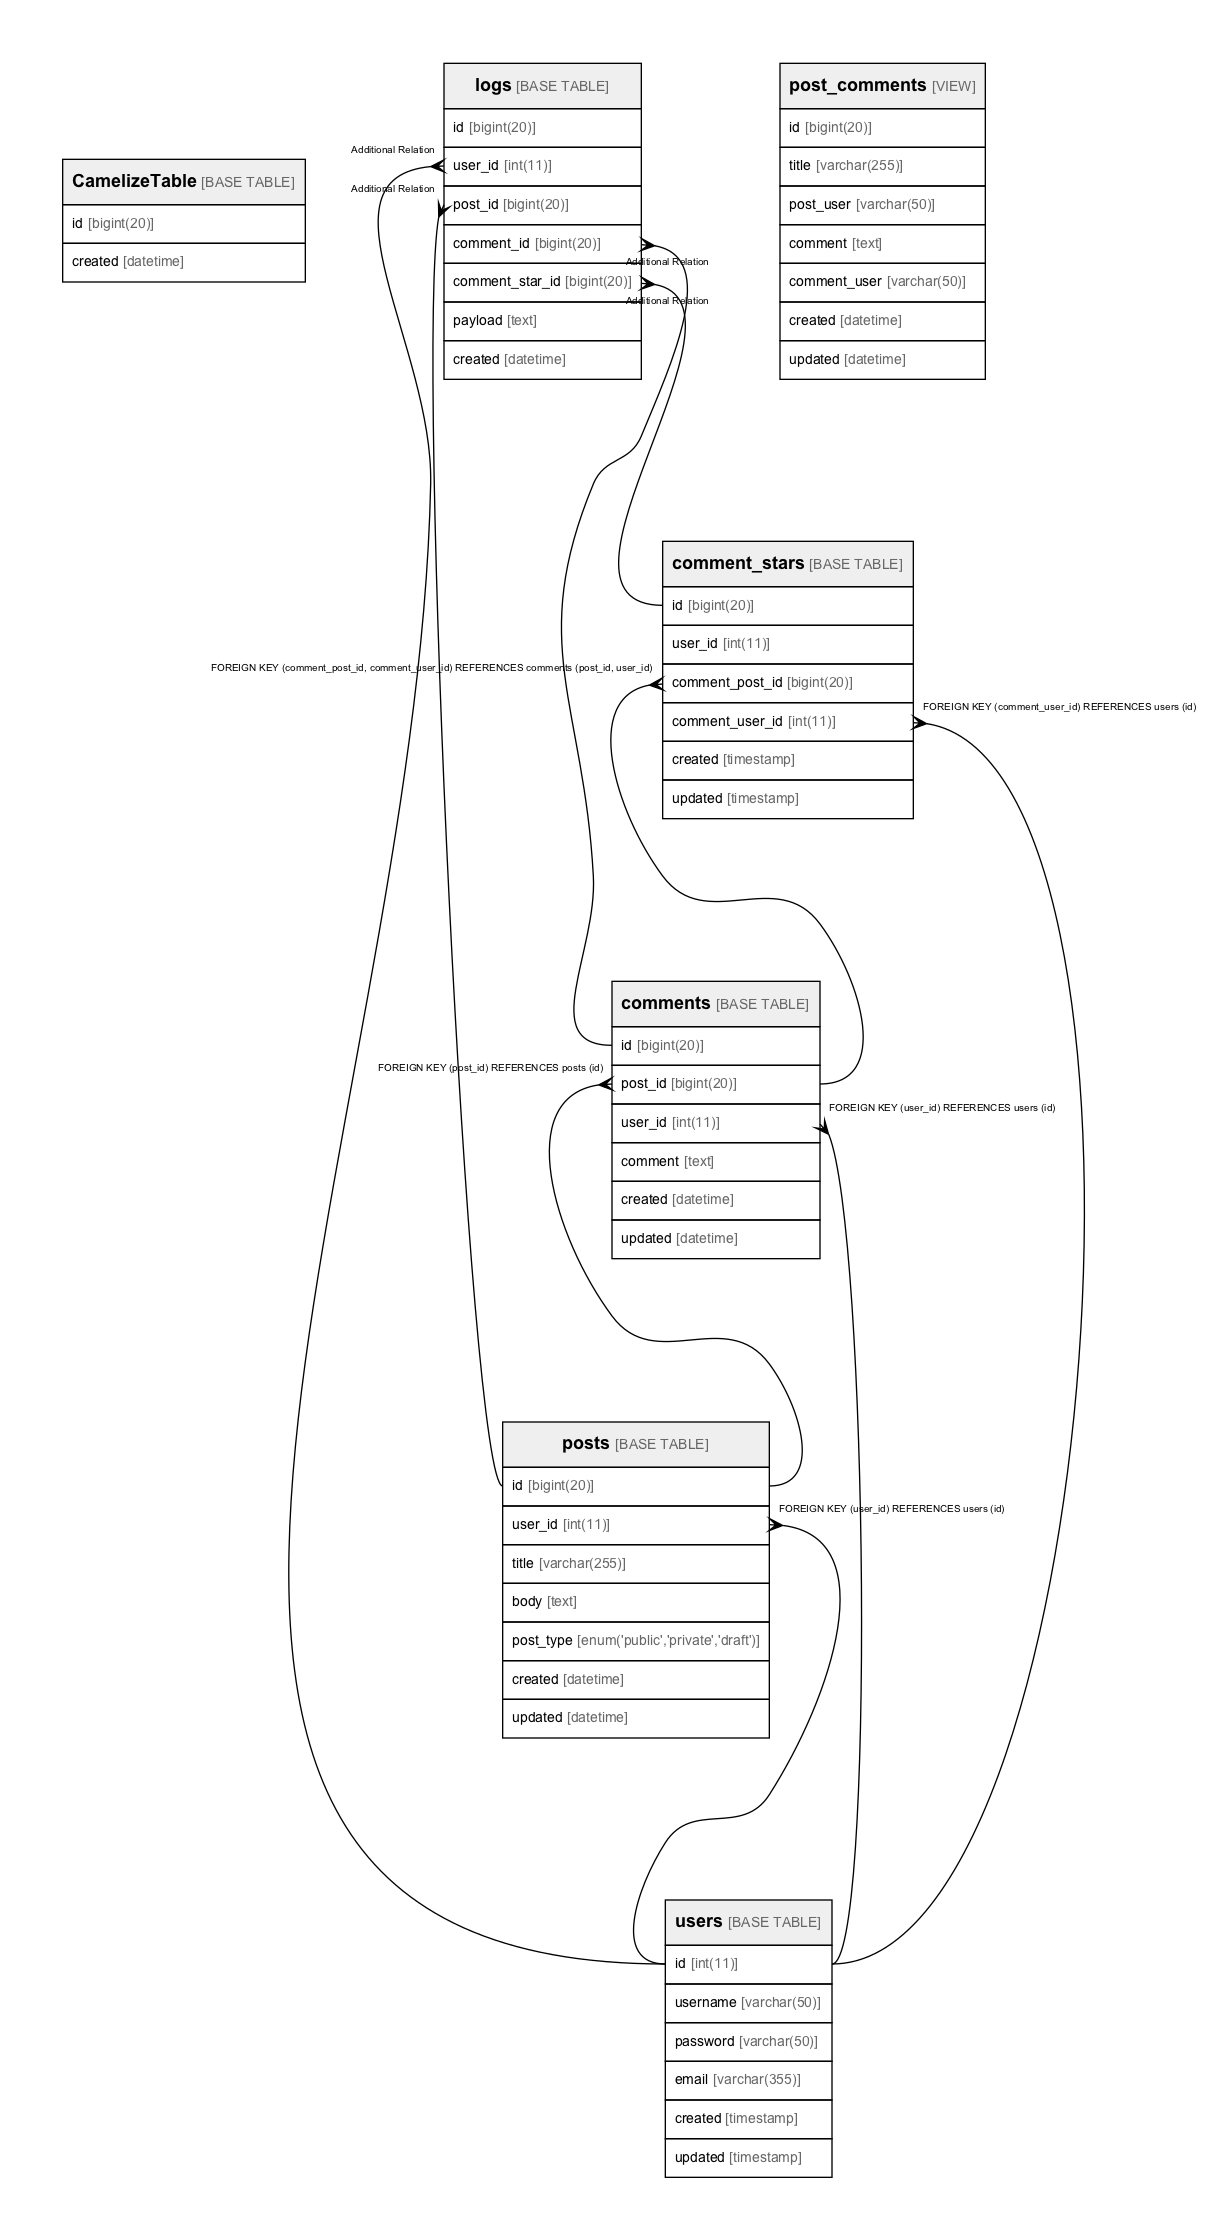
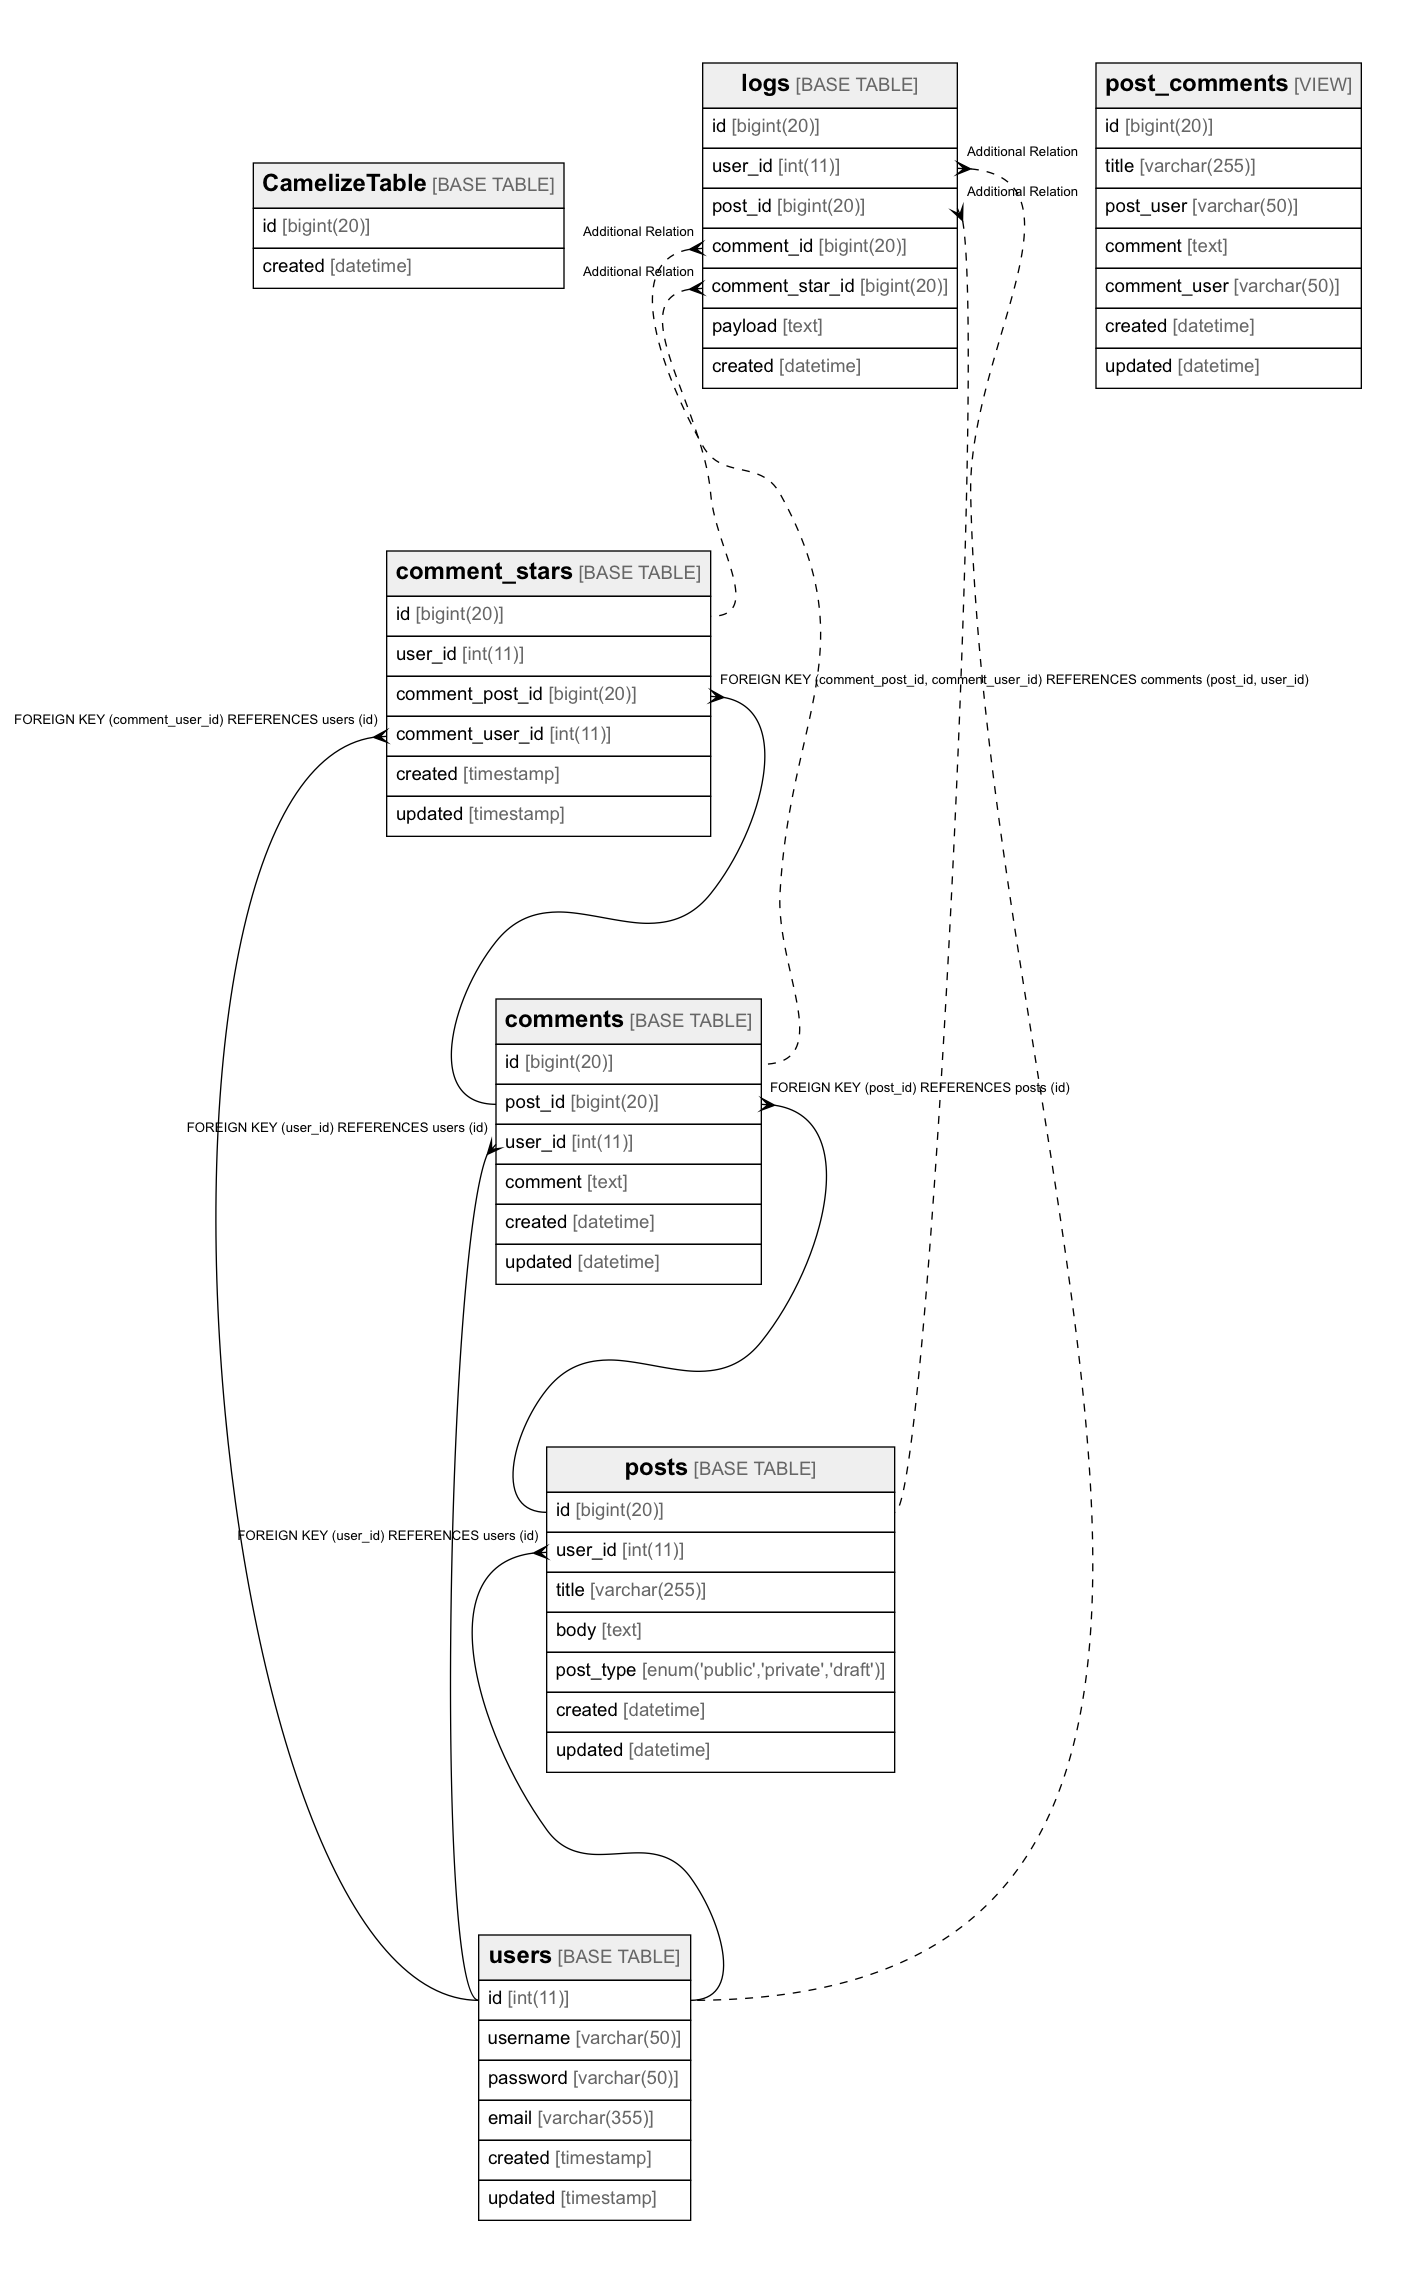
Change style of Additional relation edges

diff --git a/output/dot/templates.go b/output/dot/templates.go
@@ -6,24 +6,24 @@ import (
 	"github.com/jessevdk/go-assets"
 )
 
-var _Assets21532ae17ad95976ac467eeaeab81f2bb1d537e4 = "digraph {{ .Schema.Name }} {\n  // Config\n  graph [rankdir=TB, layout=dot, fontname=\"Arial\"];\n  node [shape=record, fontsize=14, margin=0.6, fontname=\"Arial\"];\n  edge [fontsize=10, labelfloat=false, splines=none, fontname=\"Arial\"];\n\n  // Tables\n  {{- range $i, $t := .Schema.Tables }}\n  {{ $t.Name }} [shape=none, label=<<table border=\"0\" cellborder=\"1\" cellspacing=\"0\" cellpadding=\"6\">\n                 <tr><td bgcolor=\"#EFEFEF\"><font face=\"Arial Bold\" point-size=\"18\">{{ $t.Name }}</font> <font color=\"#666666\">[{{ $t.Type }}]</font></td></tr>\n                 {{- range $ii, $c := $t.Columns }}\n                 <tr><td port=\"{{ $c.Name }}\" align=\"left\">{{ $c.Name }} <font color=\"#666666\">[{{ $c.Type }}]</font></td></tr>\n                 {{- end }}\n              </table>>];\n  {{- end }}\n\n  // Relations\n  {{- range $j, $r := .Schema.Relations }}\n  {{ $r.Table.Name }}:{{ $c := index $r.Columns 0 }}{{ $c.Name }} -> {{ $r.ParentTable.Name }}:{{ $pc := index $r.ParentColumns 0 }}{{ $pc.Name }} [dir=back, arrowtail=crow, taillabel=<<table cellpadding=\"5\" border=\"0\" cellborder=\"0\"><tr><td>{{ $r.Def }}</td></tr></table>>];\n  {{- end }}\n}\n"
-var _Assets5bd148e6149bb9adcdddfcf8cc46d6e3047dbe26 = "digraph {{ .Table.Name }} {\n  // Config\n  graph [rankdir=TB, layout=dot, fontname=\"Arial\"];\n  node [shape=record, fontsize=14, margin=0.6, fontname=\"Arial\"];\n  edge [fontsize=10, labelfloat=false, splines=none, fontname=\"Arial\"];\n\n  // Tables\n  {{ .Table.Name }} [shape=none, label=<<table border=\"3\" cellborder=\"1\" cellspacing=\"0\" cellpadding=\"6\">\n                 <tr><td bgcolor=\"#EFEFEF\"><font face=\"Arial Bold\" point-size=\"18\">{{ .Table.Name }}</font> <font color=\"#666666\">[{{ .Table.Type }}]</font></td></tr>\n                 {{- range $ii, $c := .Table.Columns }}\n                 <tr><td port=\"{{ $c.Name }}\" align=\"left\">{{ $c.Name }} <font color=\"#666666\">[{{ $c.Type }}]</font></td></tr>\n                 {{- end }}\n              </table>>];\n  {{- range $i, $t := .Tables }}\n  {{ $t.Name }} [shape=none, label=<<table border=\"0\" cellborder=\"1\" cellspacing=\"0\" cellpadding=\"6\">\n                 <tr><td bgcolor=\"#EFEFEF\"><font face=\"Arial Bold\" point-size=\"18\">{{ $t.Name }}</font> <font color=\"#666666\">[{{ $t.Type }}]</font></td></tr>\n                 {{- range $ii, $c := $t.Columns }}\n                 <tr><td port=\"{{ $c.Name }}\" align=\"left\">{{ $c.Name }} <font color=\"#666666\">[{{ $c.Type }}]</font></td></tr>\n                 {{- end }}\n              </table>>];\n  {{- end }}\n\n  // Relations\n  {{- range $i, $r := .Relations }}\n  {{ $r.Table.Name }}:{{ $c := index $r.Columns 0 }}{{ $c.Name }} -> {{ $r.ParentTable.Name }}:{{ $pc := index $r.ParentColumns 0 }}{{ $pc.Name }} [dir=back, arrowtail=crow, taillabel=<<table cellpadding=\"5\" border=\"0\" cellborder=\"0\"><tr><td>{{ $r.Def }}</td></tr></table>>];\n  {{- end }}\n}\n"
+var _Assets21532ae17ad95976ac467eeaeab81f2bb1d537e4 = "digraph {{ .Schema.Name }} {\n  // Config\n  graph [rankdir=TB, layout=dot, fontname=\"Arial\"];\n  node [shape=record, fontsize=14, margin=0.6, fontname=\"Arial\"];\n  edge [fontsize=10, labelfloat=false, splines=none, fontname=\"Arial\"];\n\n  // Tables\n  {{- range $i, $t := .Schema.Tables }}\n  {{ $t.Name }} [shape=none, label=<<table border=\"0\" cellborder=\"1\" cellspacing=\"0\" cellpadding=\"6\">\n                 <tr><td bgcolor=\"#EFEFEF\"><font face=\"Arial Bold\" point-size=\"18\">{{ $t.Name }}</font> <font color=\"#666666\">[{{ $t.Type }}]</font></td></tr>\n                 {{- range $ii, $c := $t.Columns }}\n                 <tr><td port=\"{{ $c.Name }}\" align=\"left\">{{ $c.Name }} <font color=\"#666666\">[{{ $c.Type }}]</font></td></tr>\n                 {{- end }}\n              </table>>];\n  {{- end }}\n\n  // Relations\n  {{- range $j, $r := .Schema.Relations }}\n  {{ $r.Table.Name }}:{{ $c := index $r.Columns 0 }}{{ $c.Name }} -> {{ $r.ParentTable.Name }}:{{ $pc := index $r.ParentColumns 0 }}{{ $pc.Name }} [dir=back, arrowtail=crow, {{ if $r.IsAdditional }}style=\"dashed\",{{ end }} taillabel=<<table cellpadding=\"5\" border=\"0\" cellborder=\"0\"><tr><td>{{ $r.Def }}</td></tr></table>>];\n  {{- end }}\n}\n"
+var _Assets5bd148e6149bb9adcdddfcf8cc46d6e3047dbe26 = "digraph {{ .Table.Name }} {\n  // Config\n  graph [rankdir=TB, layout=dot, fontname=\"Arial\"];\n  node [shape=record, fontsize=14, margin=0.6, fontname=\"Arial\"];\n  edge [fontsize=10, labelfloat=false, splines=none, fontname=\"Arial\"];\n\n  // Tables\n  {{ .Table.Name }} [shape=none, label=<<table border=\"3\" cellborder=\"1\" cellspacing=\"0\" cellpadding=\"6\">\n                 <tr><td bgcolor=\"#EFEFEF\"><font face=\"Arial Bold\" point-size=\"18\">{{ .Table.Name }}</font> <font color=\"#666666\">[{{ .Table.Type }}]</font></td></tr>\n                 {{- range $ii, $c := .Table.Columns }}\n                 <tr><td port=\"{{ $c.Name }}\" align=\"left\">{{ $c.Name }} <font color=\"#666666\">[{{ $c.Type }}]</font></td></tr>\n                 {{- end }}\n              </table>>];\n  {{- range $i, $t := .Tables }}\n  {{ $t.Name }} [shape=none, label=<<table border=\"0\" cellborder=\"1\" cellspacing=\"0\" cellpadding=\"6\">\n                 <tr><td bgcolor=\"#EFEFEF\"><font face=\"Arial Bold\" point-size=\"18\">{{ $t.Name }}</font> <font color=\"#666666\">[{{ $t.Type }}]</font></td></tr>\n                 {{- range $ii, $c := $t.Columns }}\n                 <tr><td port=\"{{ $c.Name }}\" align=\"left\">{{ $c.Name }} <font color=\"#666666\">[{{ $c.Type }}]</font></td></tr>\n                 {{- end }}\n              </table>>];\n  {{- end }}\n\n  // Relations\n  {{- range $i, $r := .Relations }}\n  {{ $r.Table.Name }}:{{ $c := index $r.Columns 0 }}{{ $c.Name }} -> {{ $r.ParentTable.Name }}:{{ $pc := index $r.ParentColumns 0 }}{{ $pc.Name }} [dir=back, arrowtail=crow, {{ if $r.IsAdditional }}style =\"dashed\",{{ end }} taillabel=<<table cellpadding=\"5\" border=\"0\" cellborder=\"0\"><tr><td>{{ $r.Def }}</td></tr></table>>];\n  {{- end }}\n}\n"
 
 // Assets returns go-assets FileSystem
 var Assets = assets.NewFileSystem(map[string][]string{"/": []string{"schema.dot.tmpl", "table.dot.tmpl"}}, map[string]*assets.File{
-	"/table.dot.tmpl": &assets.File{
-		Path:     "/table.dot.tmpl",
-		FileMode: 0x1a4,
-		Mtime:    time.Unix(1527595732, 1527595732000000000),
-		Data:     []byte(_Assets5bd148e6149bb9adcdddfcf8cc46d6e3047dbe26),
-	}, "/": &assets.File{
+	"/": &assets.File{
 		Path:     "/",
 		FileMode: 0x800001ed,
-		Mtime:    time.Unix(1527595732, 1527595732000000000),
+		Mtime:    time.Unix(1527686637, 1527686637000000000),
 		Data:     nil,
 	}, "/schema.dot.tmpl": &assets.File{
 		Path:     "/schema.dot.tmpl",
 		FileMode: 0x1a4,
-		Mtime:    time.Unix(1527512634, 1527512634000000000),
+		Mtime:    time.Unix(1527686637, 1527686637000000000),
 		Data:     []byte(_Assets21532ae17ad95976ac467eeaeab81f2bb1d537e4),
+	}, "/table.dot.tmpl": &assets.File{
+		Path:     "/table.dot.tmpl",
+		FileMode: 0x1a4,
+		Mtime:    time.Unix(1527685972, 1527685972000000000),
+		Data:     []byte(_Assets5bd148e6149bb9adcdddfcf8cc46d6e3047dbe26),
 	}}, "")

diff --git a/output/md/templates.go b/output/md/templates.go
@@ -14,16 +14,16 @@ var Assets = assets.NewFileSystem(map[string][]string{"/": []string{"index.md.tm
 	"/": &assets.File{
 		Path:     "/",
 		FileMode: 0x800001ed,
-		Mtime:    time.Unix(1527597737, 1527597737000000000),
+		Mtime:    time.Unix(1527684406, 1527684406000000000),
 		Data:     nil,
 	}, "/index.md.tmpl": &assets.File{
 		Path:     "/index.md.tmpl",
 		FileMode: 0x1a4,
-		Mtime:    time.Unix(1527597737, 1527597737000000000),
+		Mtime:    time.Unix(1527684406, 1527684406000000000),
 		Data:     []byte(_Assets43889384df1c6f74d764c29d91b9d5637eb46061),
 	}, "/table.md.tmpl": &assets.File{
 		Path:     "/table.md.tmpl",
 		FileMode: 0x1a4,
-		Mtime:    time.Unix(1527597735, 1527597735000000000),
+		Mtime:    time.Unix(1527684406, 1527684406000000000),
 		Data:     []byte(_Assetsac44302fb6150a621aa9d04a0350aac972bf7e18),
 	}}, "")

diff --git a/schema/schema.go b/schema/schema.go
@@ -50,6 +50,7 @@ type Relation struct {
 	ParentTable   *Table
 	ParentColumns []*Column
 	Def           string
+	IsAdditional  bool
 }
 
 // Schema is the struct for database schema
@@ -142,7 +143,8 @@ func (s *Schema) LoadAdditionalRelations(path string) error {
 
 	for _, r := range data.Relations {
 		relation := &Relation{
-			Def: "Additional Relation",
+			Def:          "Additional Relation",
+			IsAdditional: true,
 		}
 		relation.Table, err = s.FindTableByName(r.Table)
 		if err != nil {
